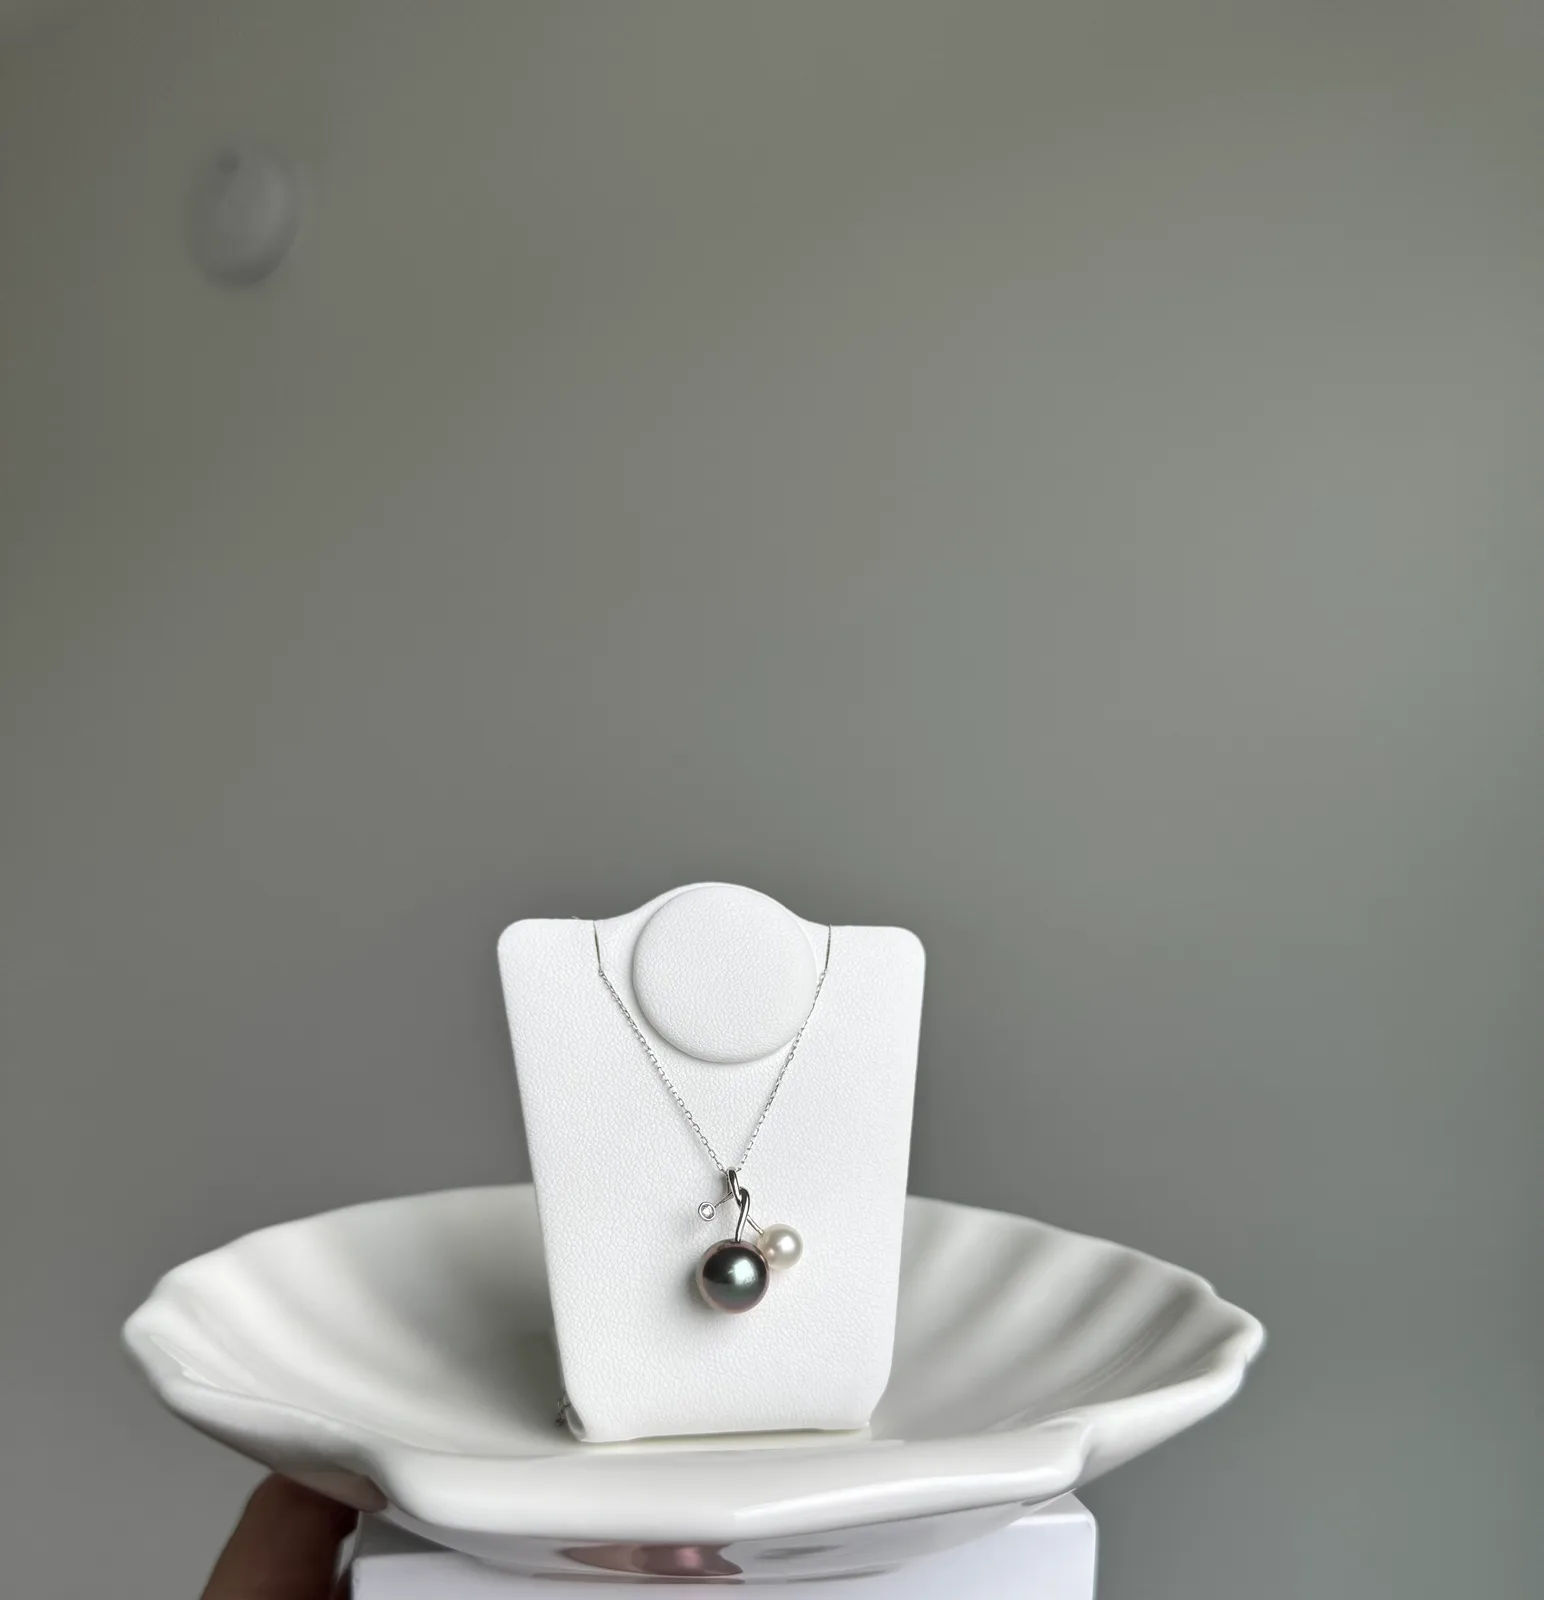
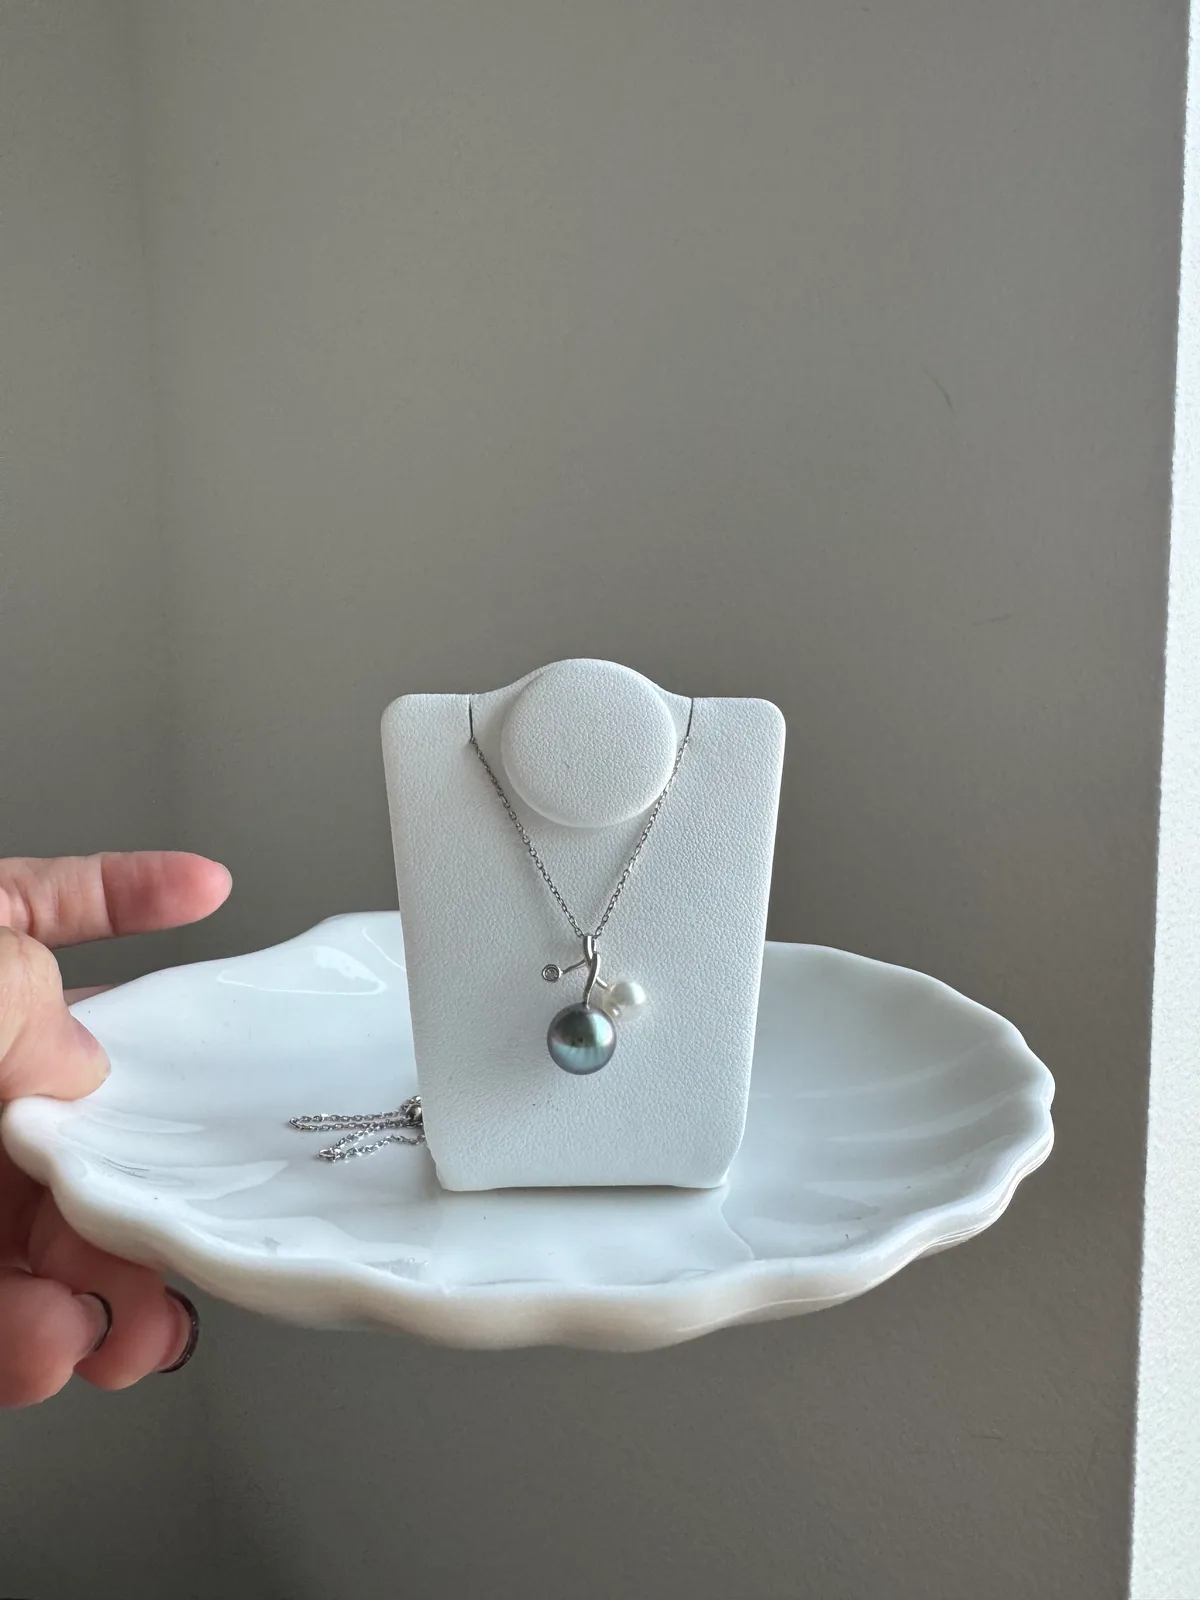
Refresh Tahitian pendant and Akoya necklace photos, update Signature copy
Swap the 3.5mm Akoya necklace for a new 8.0-8.5mm pink Akoya piece, add
more Tahitian pendant photos, and rename it to reflect its peacock-blue
color. Also replace the Signature line's price-range badge with
lifestyle copy now that per-product pricing lives elsewhere.

diff --git a/src/data/products/necklaces.ts b/src/data/products/necklaces.ts
@@ -59,8 +59,6 @@ export const necklacesProducts: Product[] = [
       "/gallery/necklace/pendant/tahitian-necklace/tahitian-necklace-2.webp",
       "/gallery/necklace/pendant/tahitian-necklace/tahitian-necklace-3.webp",
       "/gallery/necklace/pendant/tahitian-necklace/tahitian-necklace-4.webp",
-      "/gallery/necklace/pendant/tahitian-necklace/tahitian-necklace-5.webp",
-      "/gallery/necklace/pendant/tahitian-necklace/tahitian-necklace-6.webp",
     ],
   },
   {
@@ -76,20 +74,6 @@ export const necklacesProducts: Product[] = [
       "/gallery/necklace/necklace/m-akoya-3.5/m-akoya-3.5-2.webp",
       "/gallery/necklace/necklace/m-akoya-3.5/m-akoya-3.5-3.webp",
       "/gallery/necklace/necklace/m-akoya-3.5/m-akoya-3.5-4.webp",
-    ],
-  },
-  {
-    id: "necklace-t-akoya-3.5",
-    featured: false,
-    collection: "akoya",
-    category: "necklaces",
-    line: "forever",
-    titleKey: "products.necklace-t-akoya-3.5",
-    descriptionKey: "necklace-t-akoya-3.5",
-    images: [
-      "/gallery/necklace/necklace/t-akoya-3.5/t-akoya-3.5-1.webp",
-      "/gallery/necklace/necklace/t-akoya-3.5/t-akoya-3.5-2.webp",
-      "/gallery/necklace/necklace/t-akoya-3.5/t-akoya-3.5-3.webp",
     ],
   },
   {
@@ -135,6 +119,22 @@ export const necklacesProducts: Product[] = [
       "/gallery/necklace/necklace/m-akoya-candy-8.0/m-akoya-candy-8.0-3.webp",
       "/gallery/necklace/necklace/m-akoya-candy-8.0/m-akoya-candy-8.0-4.webp",
       "/gallery/necklace/necklace/m-akoya-candy-8.0/m-akoya-candy-8.0-5.webp",
+    ],
+  },
+  {
+    id: "necklace-m-akoya-8-8.5-q1",
+    featured: false,
+    collection: "akoya",
+    category: "necklaces",
+    line: "forever",
+    titleKey: "products.necklace-m-akoya-8-8.5-q1",
+    descriptionKey: "necklace-m-akoya-8-8.5-q1",
+    images: [
+      "/gallery/necklace/necklace/m-akoya-8-8.5-q1/m-akoya-8-8.5-q1-1.webp",
+      "/gallery/necklace/necklace/m-akoya-8-8.5-q1/m-akoya-8-8.5-q1-2.webp",
+      "/gallery/necklace/necklace/m-akoya-8-8.5-q1/m-akoya-8-8.5-q1-3.webp",
+      "/gallery/necklace/necklace/m-akoya-8-8.5-q1/m-akoya-8-8.5-q1-4.webp",
+      "/gallery/necklace/necklace/m-akoya-8-8.5-q1/m-akoya-8-8.5-q1-5.webp",
     ],
   },
   {
